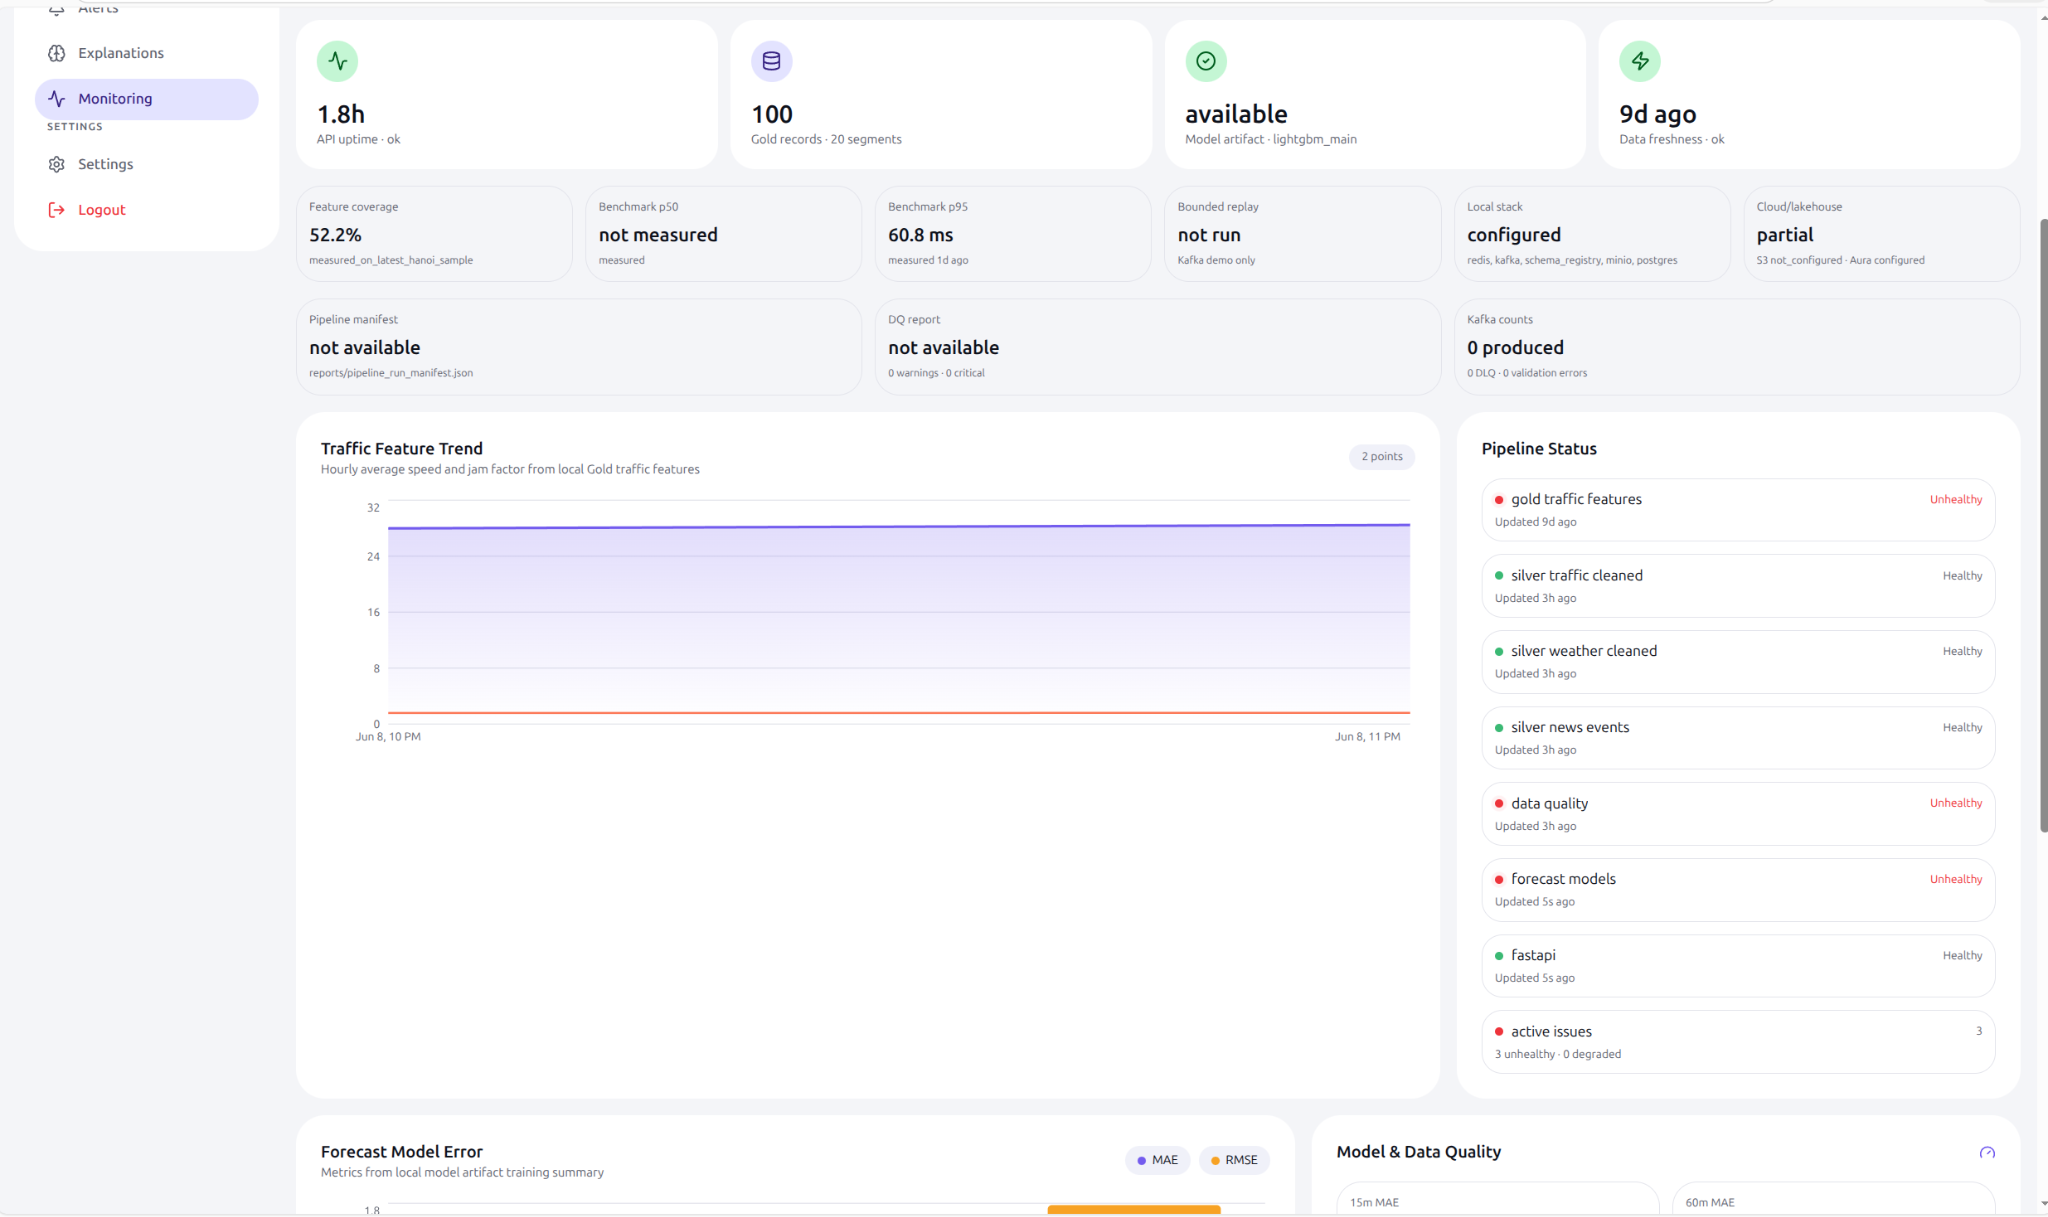
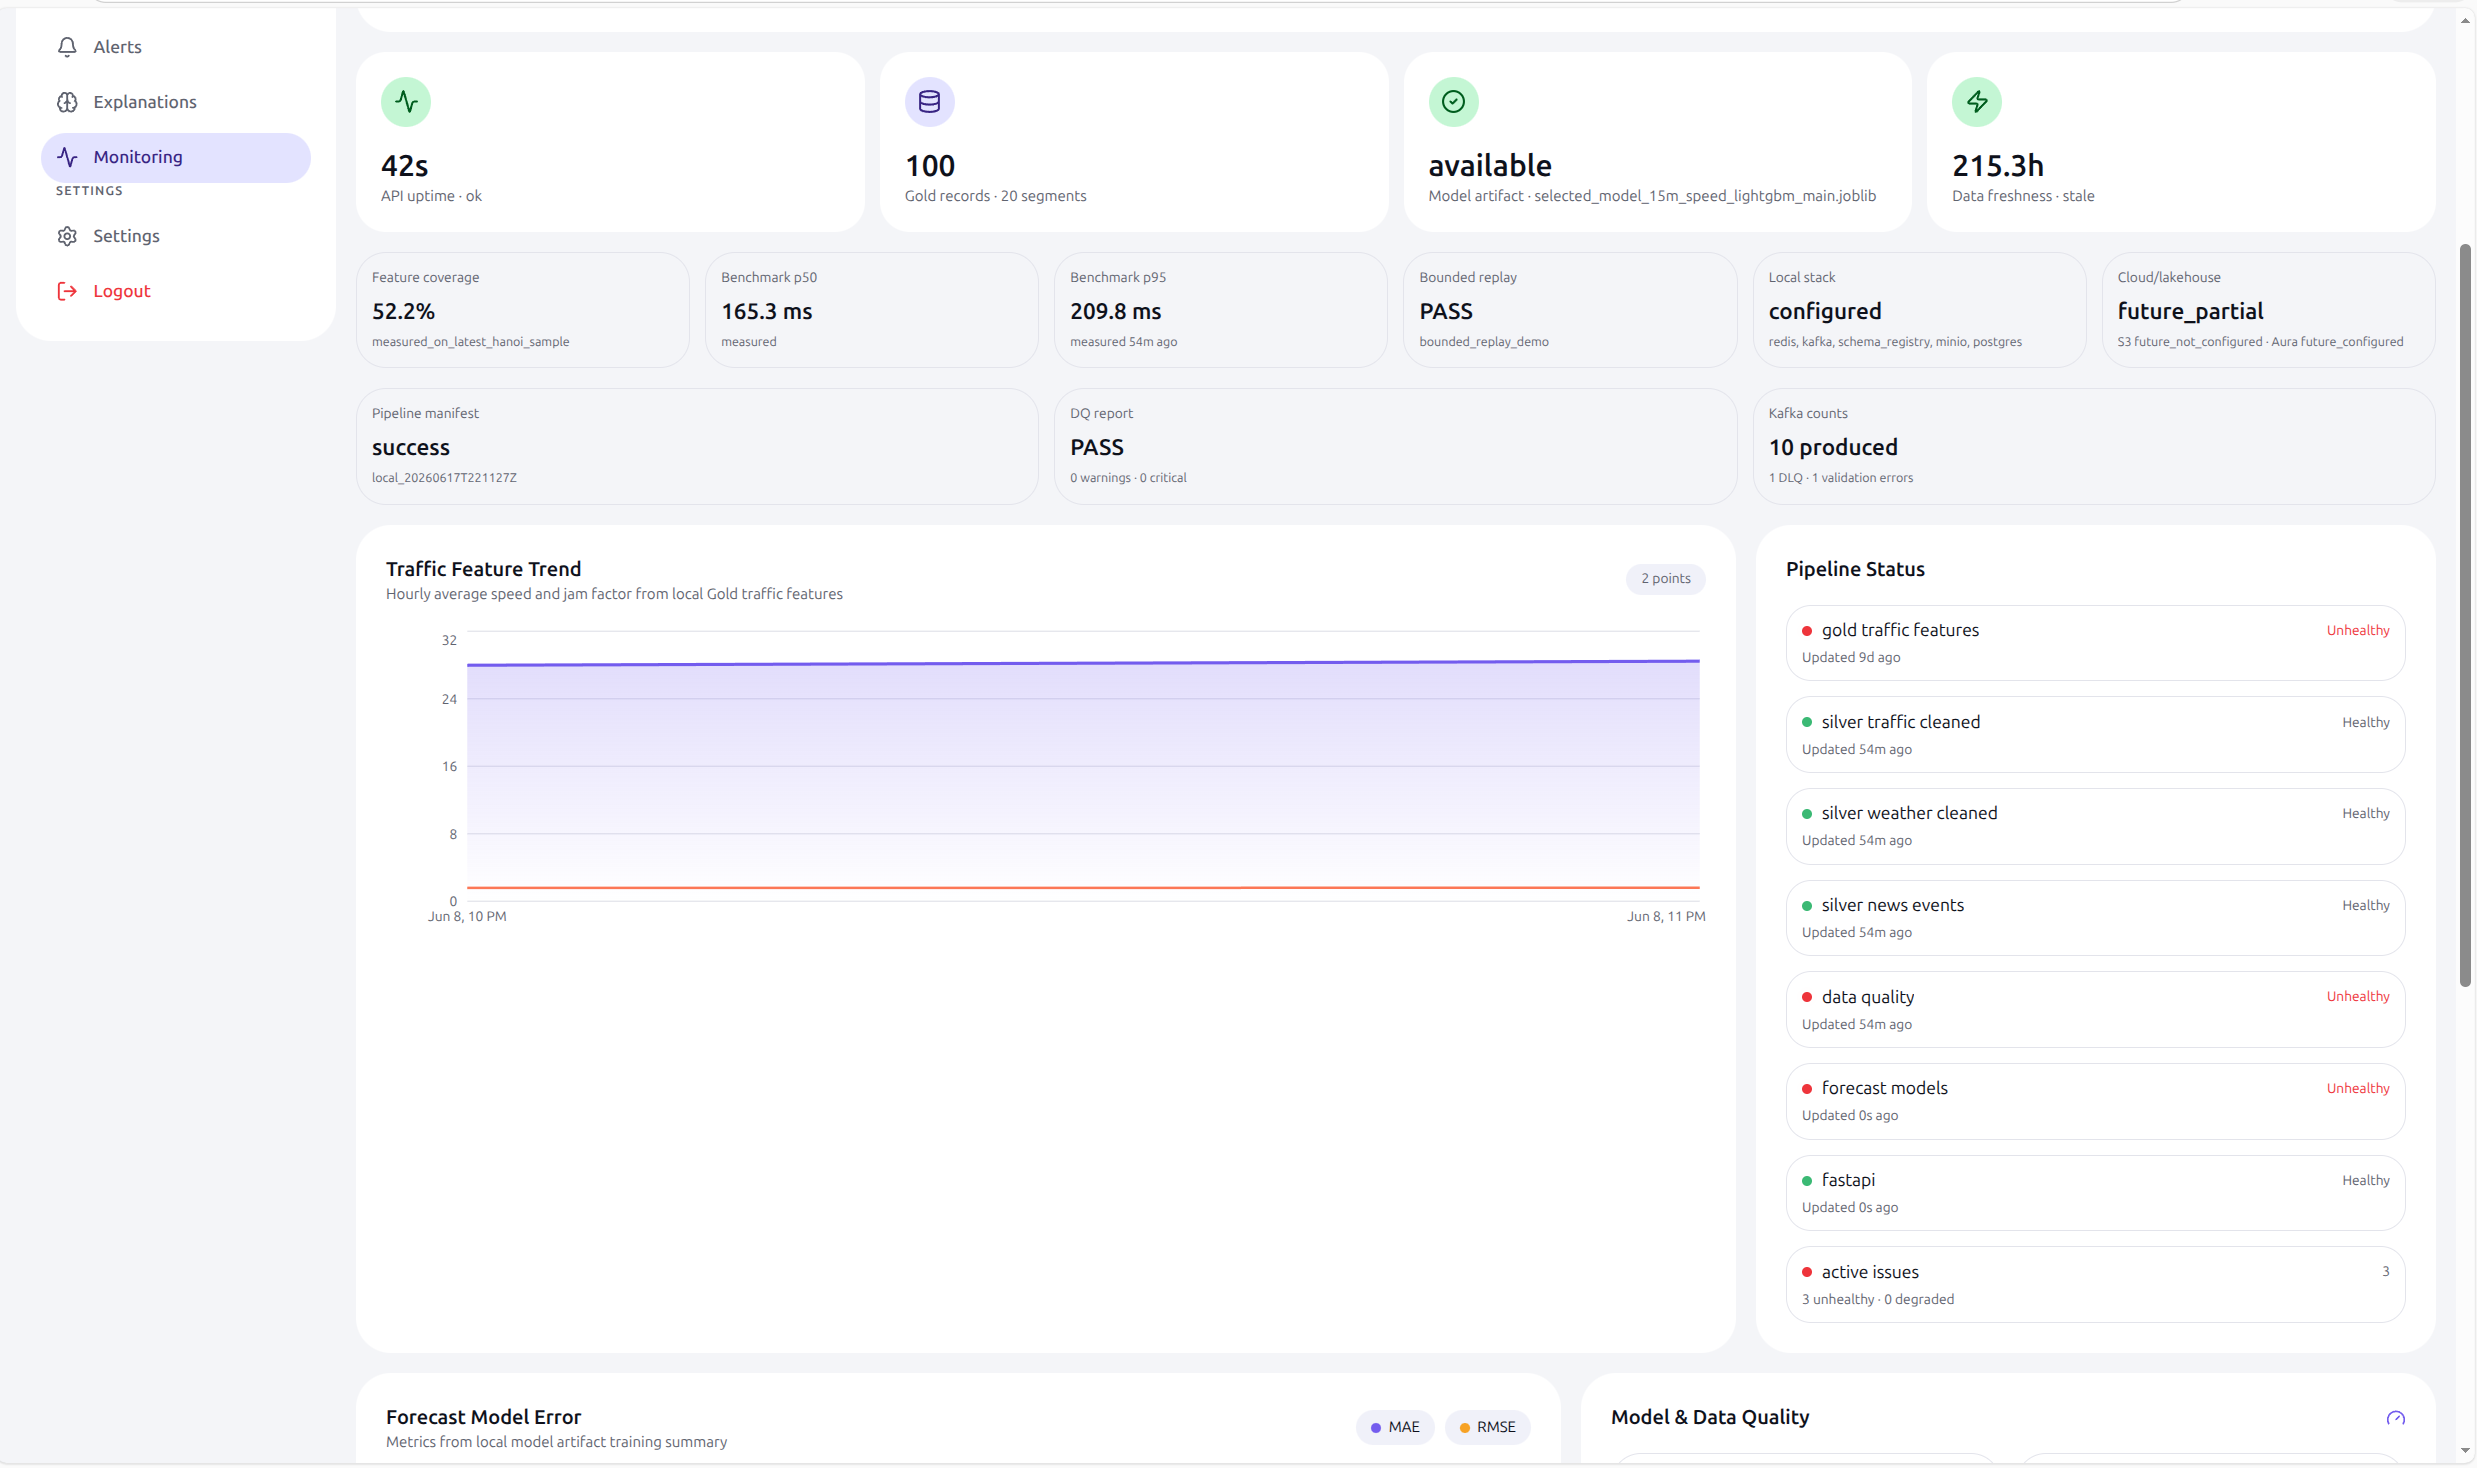
Update service screenshots and local Compose settings
Add screenshots for Airflow, API documentation, MLflow, Neo4j, and monitoring. Update frontend dependency and port settings in Compose, and remove the generated root Airflow webserver configuration from tracking.

diff --git a/README.md b/README.md
@@ -571,6 +571,8 @@ Neo4j hỗ trợ:
 * Phân tích các đoạn đường có liên quan.
 * Cung cấp dữ liệu cho graph endpoint trong API.
 
+![Neo4j Graph Analytics](docs/assets/neo4j_analytics.png)
+
 ---
 
 ## 6. Các URLs quan trọng
